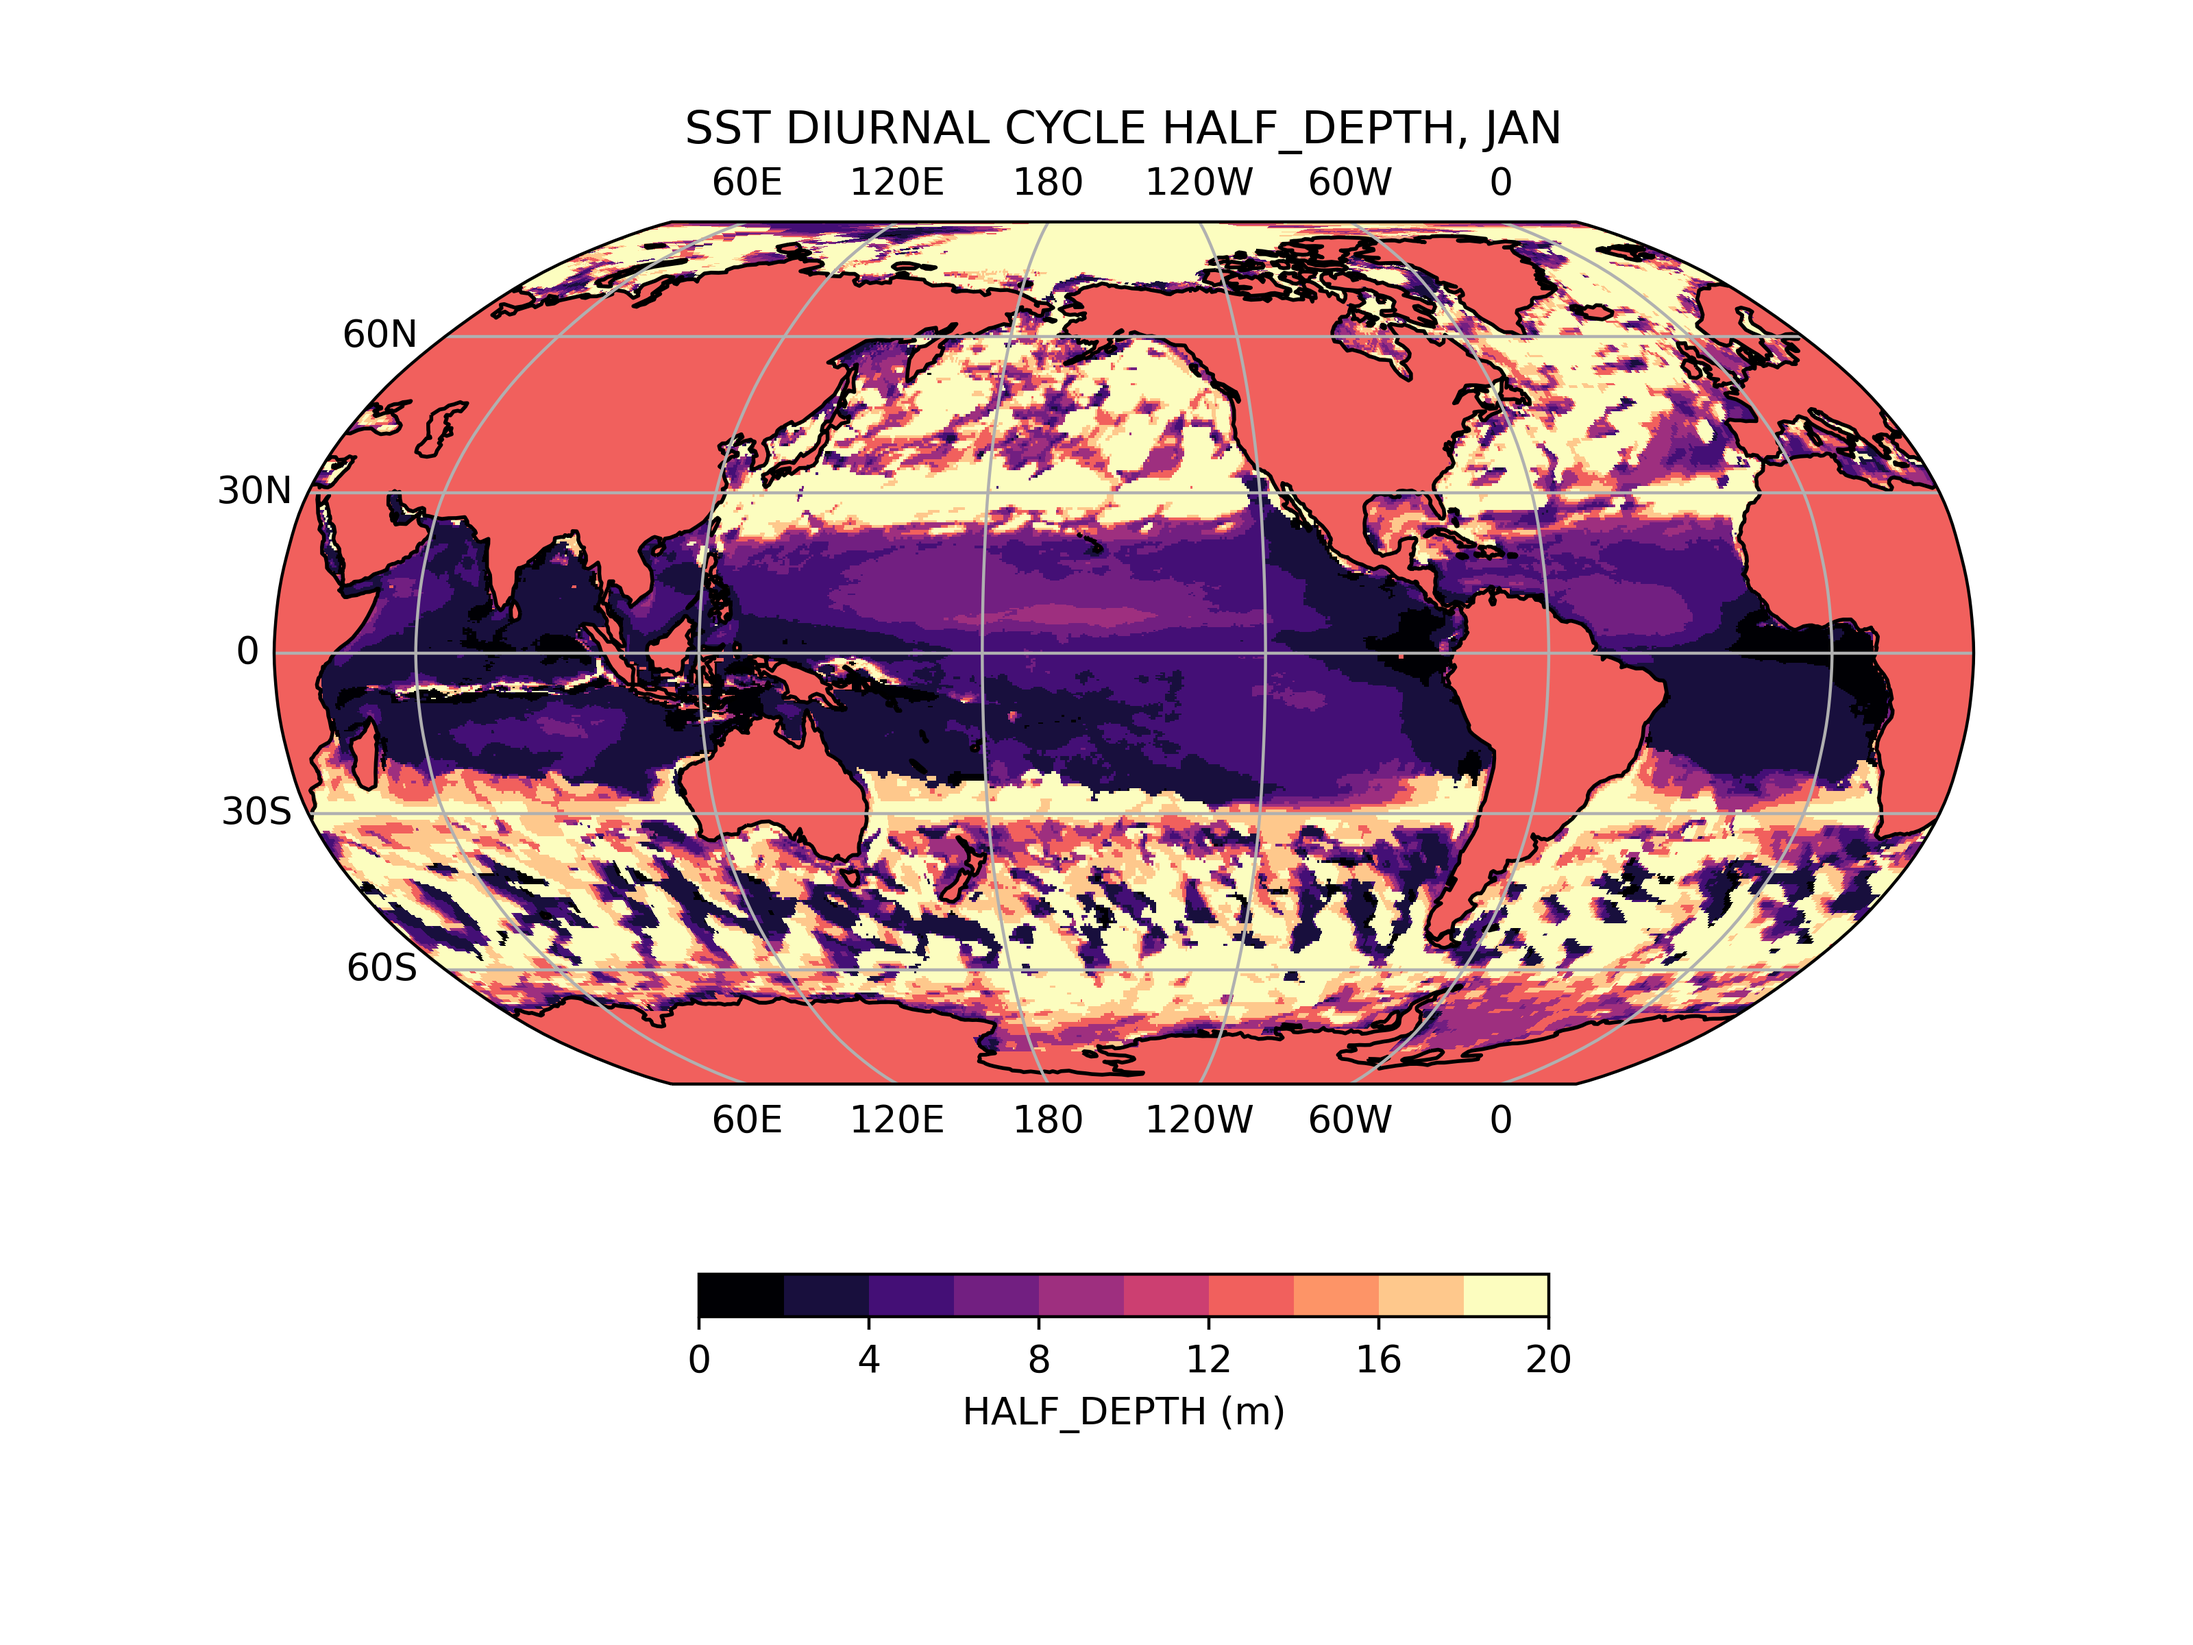
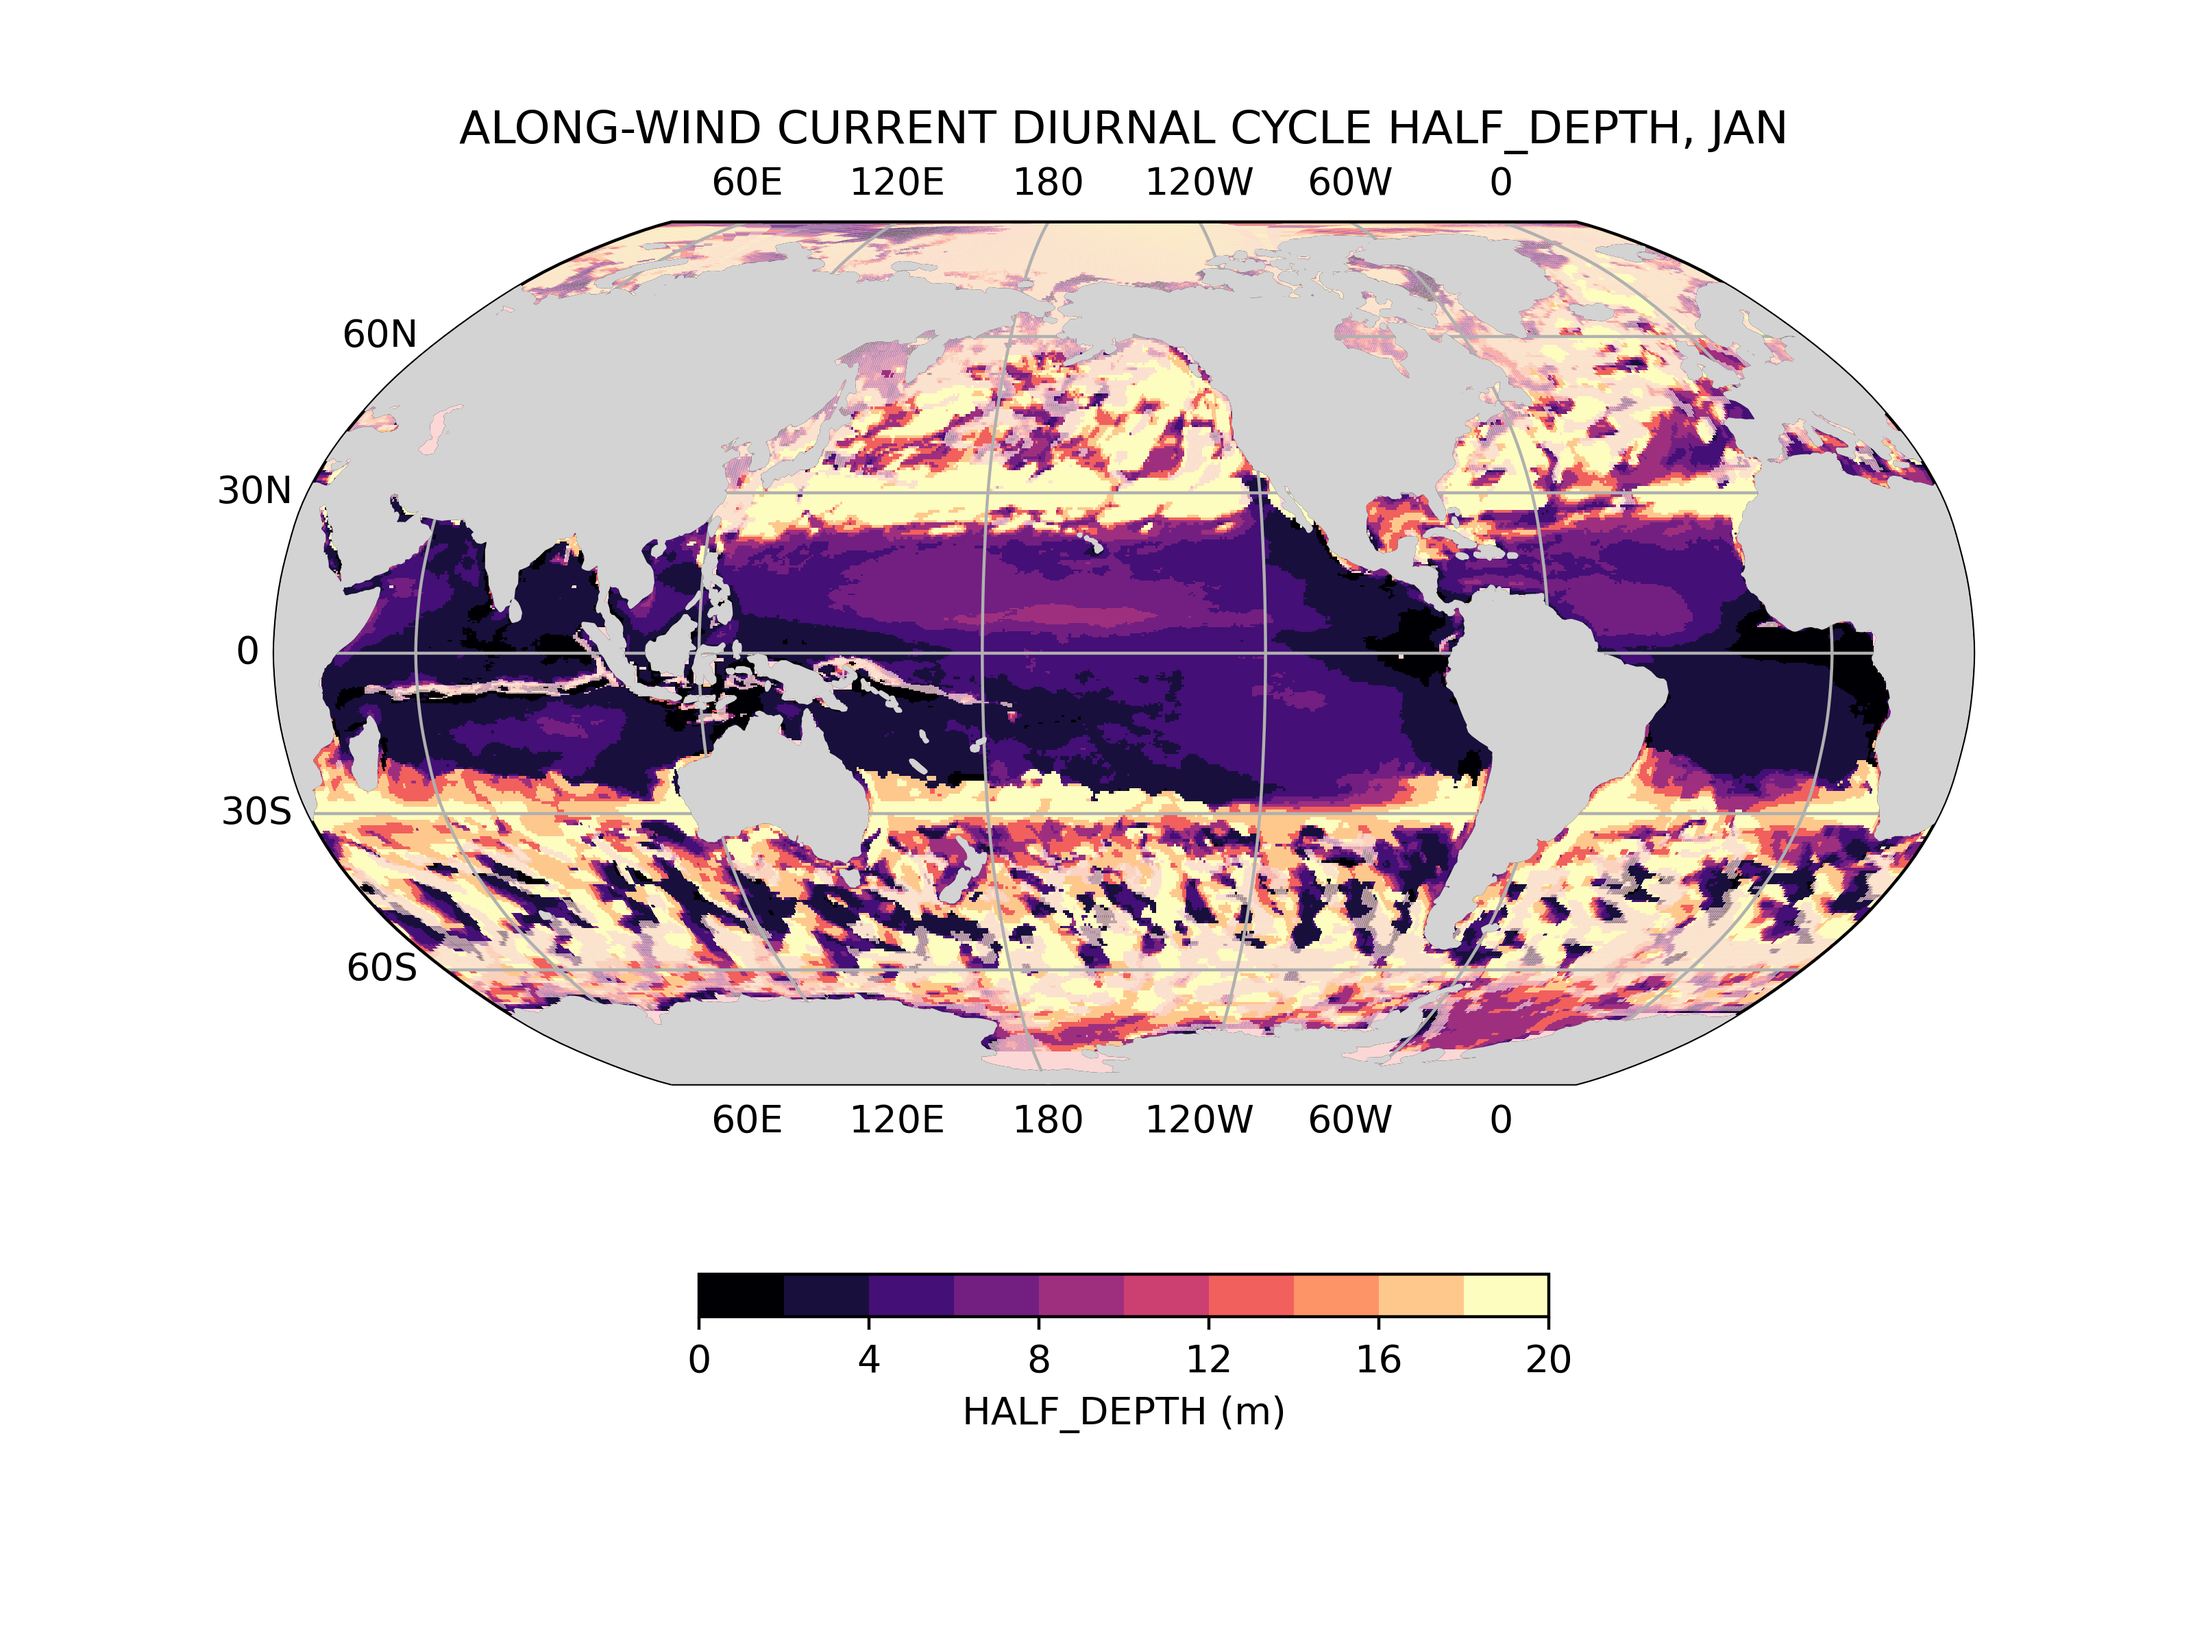
Updates maps to show land.

Changed region(s): [[0.125, 0.125, 0.9062, 0.6562], [0.2188, 0.0625, 0.8125, 0.0938]]

diff --git a/diurnal_cycle/analysis/diurnal_range_maps.py b/diurnal_cycle/analysis/diurnal_range_maps.py
@@ -210,7 +210,7 @@ def plot_one_map(ds, ptype, pvar, mon):
     gl.xformatter = LongitudeFormatter(zero_direction_label=False,
                                        degree_symbol='')
     gl.yformatter = LatitudeFormatter(degree_symbol='')
-    ax.coastlines(zorder=3)
+    ax.coastlines(zorder=4)
     ax.add_feature(cfeature.LAND, facecolor='lightgray', zorder=4)
     
     # Define color map.
